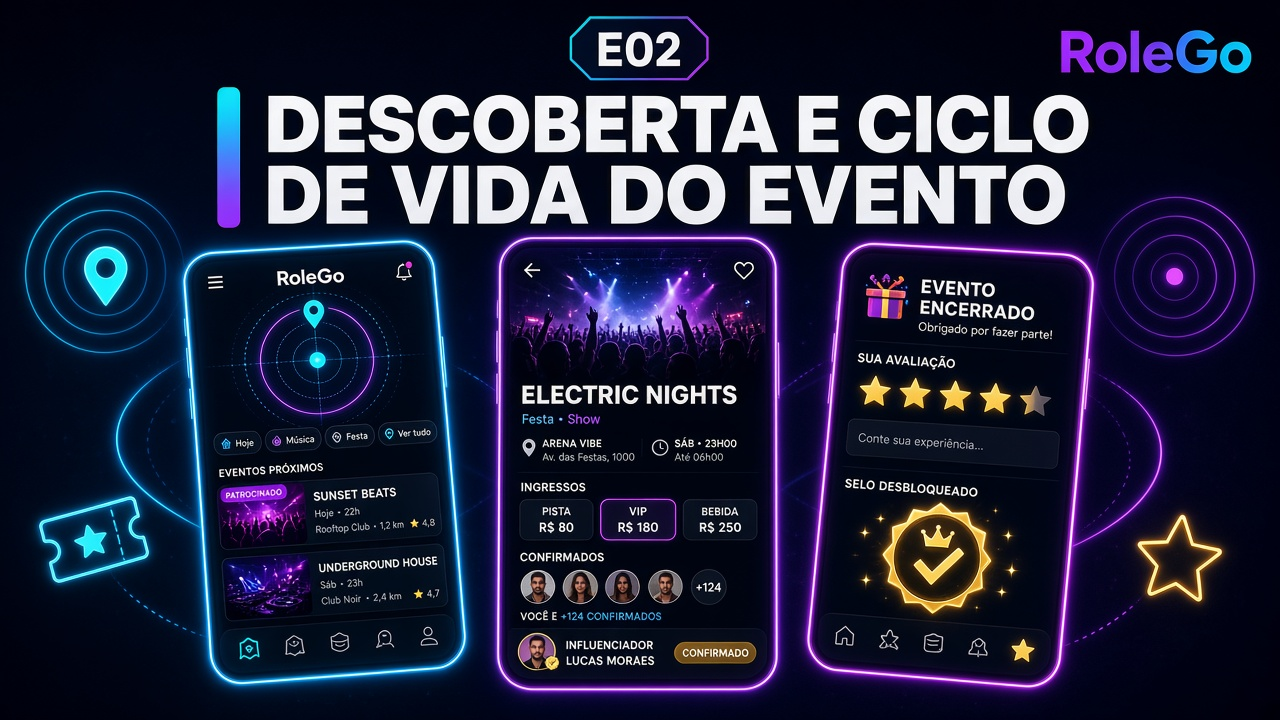
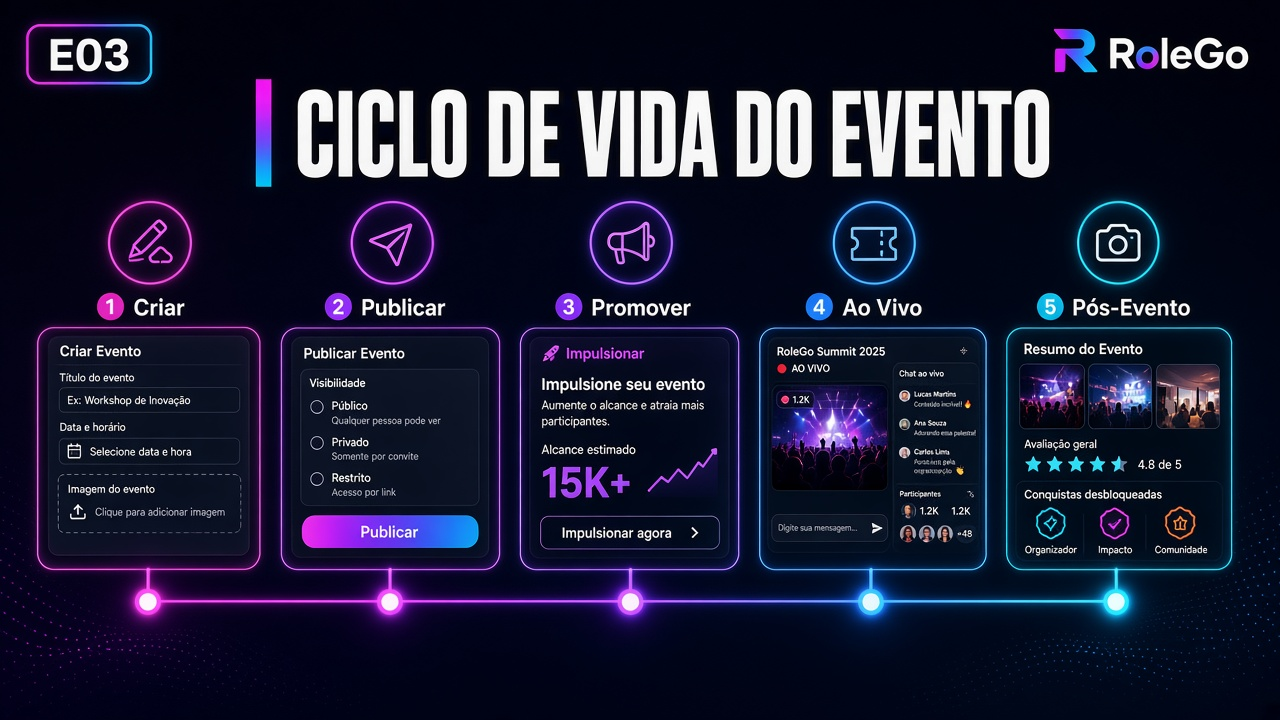
Update epic documentation with improved formatting and content adjustments
This commit refines the README.md files for various epics, enhancing the formatting for better readability and consistency. Key changes include correcting table alignments, updating epic descriptions, and ensuring accurate image paths. Additionally, the user personas in the role-go section have been updated to reflect changes in epic associations, improving clarity and organization throughout the documentation.

diff --git a/role-go/epics.md b/role-go/epics.md
@@ -11,16 +11,17 @@ Cada épico agrupa um conjunto coerente de valor; histórias e BDD vêm depois.
 | ID | Épico |
 |----|-------|
 | E01 | Conta, onboarding e perfil |
-| E02 | Descoberta e ciclo de vida do evento |
-| E03 | Ingressos e pagamento |
-| E04 | Cardápio digital e consumação |
-| E05 | Gamificação e RoleGo Wallet |
-| E06 | Vitrine de influenciadores |
-| E07 | Publicidade e visibilidade paga |
-| E08 | Assinatura Premium |
-| E09 | Notificações e alertas |
-| E10 | Painel do parceiro (bares e casas) |
-| E11 | Reputação anfitrião–convidado |
+| E02 | Descoberta de eventos |
+| E03 | Ciclo de vida do evento |
+| E04 | Ingressos e pagamento |
+| E05 | Cardápio digital e consumação |
+| E06 | Gamificação e RoleGo Wallet |
+| E07 | Vitrine de influenciadores |
+| E08 | Publicidade e visibilidade paga |
+| E09 | Assinatura Premium |
+| E10 | Notificações e alertas |
+| E11 | Painel do parceiro (bares e casas) |
+| E12 | Reputação anfitrião–convidado |
 
 ---
 
@@ -30,65 +31,69 @@ Cada épico agrupa um conjunto coerente de valor; histórias e BDD vêm depois.
 
 O usuário cria conta (email, Google ou Apple), configura preferências de tipo de evento, cidade, raio e localização, e mantém um perfil com foto, histórico de eventos, amigos, fotos por evento e selos. A entrada rápida e o perfil alimentam descoberta, social e gamificação.
 
-## E02 — Descoberta e ciclo de vida do evento
+## E02 — Descoberta de eventos
 
-![Capa do épico E02 — Descoberta e ciclo de vida do evento](assets/epic-e02-cover.png)
+![Capa do épico E02 — Descoberta de eventos](assets/epic-e02-cover.png)
 
-O usuário encontra o que está rolando perto dele por geolocalização e raio configurável (ex.: 5, 20 ou 50 km), com modos Feed, Tinder (swipe), Lista e Mapa (conforme premium/patrocínio), filtros por tipo e dia, destaque de eventos patrocinados e radar dinâmico com cards atualizados. Cada evento tem página completa (local, horários, valores de entrada/VIP/bebida, confirmados, interessados, influenciadores contratados e fotos de edições anteriores) e ciclo do anúncio ao pós-evento (cadastro e edição por anfitriões e casas, avaliação, comentário e selos) — unificando a descoberta espalhada hoje em Instagram, Google, sites e WhatsApp e dando informação suficiente para decidir, comprar e lembrar o rolê.
+O usuário encontra o que está rolando perto dele por geolocalização e raio configurável (ex.: 5, 20 ou 50 km), com modos Feed, Tinder (swipe), Lista e Mapa (conforme premium/patrocínio), filtros por tipo e dia, destaque de eventos patrocinados e radar dinâmico com cards atualizados — unificando a descoberta hoje espalhada em Instagram, Google, sites e WhatsApp.
 
-## E03 — Ingressos e pagamento
+## E03 — Ciclo de vida do evento
 
-![Capa do épico E03 — Ingressos e pagamento](assets/epic-e03-cover.png)
+![Capa do épico E03 — Ciclo de vida do evento](assets/epic-e03-cover.png)
+
+Cada evento tem página completa (local, horários, valores de entrada/VIP/bebida, confirmados, interessados, influenciadores contratados e fotos de edições anteriores) e um ciclo do anúncio ao pós-evento (criar, publicar, promover, ao vivo, avaliação, comentário e selos) — informação suficiente para decidir, comprar e lembrar o rolê.
+
+## E04 — Ingressos e pagamento
+
+![Capa do épico E04 — Ingressos e pagamento](assets/epic-e04-cover.png)
 
 Compra de ingresso no app (pista, VIP etc.) com taxa de serviço, gateway de pagamento, QR Code, carteira de ingressos, compartilhamento com o grupo e reserva de mesa/consumação antecipada em parceiros — do descarte ao ingresso em poucos cliques.
 
-## E04 — Cardápio digital e consumação
+## E05 — Cardápio digital e consumação
 
-![Capa do épico E04 — Cardápio digital e consumação](assets/epic-e04-cover.png)
+![Capa do épico E05 — Cardápio digital e consumação](assets/epic-e05-cover.png)
 
 O usuário consome pelo app no bar parceiro via cardápio digital; a compra gera score de consumo e benefícios ligados a status/premium, com comissão para o estabelecimento (percentuais ainda em aberto na visão).
 
-## E05 — Gamificação e RoleGo Wallet
+## E06 — Gamificação e RoleGo Wallet
 
-![Capa do épico E05 — Gamificação e RoleGo Wallet](assets/epic-e05-cover.png)
+![Capa do épico E06 — Gamificação e RoleGo Wallet](assets/epic-e06-cover.png)
 
 Pontos, selos, rankings entre amigos, recompensas (descontos, ingressos com preço reduzido, furo de fila) e status (ex.: Rolê Gold, Platina) incentivam uso e compra pelo app. A RoleGo Wallet guarda histórico de experiências, fotos, avaliações e selos, reforçando retenção e adesão dos estabelecimentos.
 
-## E06 — Vitrine de influenciadores
+## E07 — Vitrine de influenciadores
+
+![Capa do épico E07 — Vitrine de influenciadores](assets/epic-e07-cover.png)
 
 Influenciadores cadastram disponibilidade; casas e produtores contratam pela plataforma; o nome do influenciador confirmado aparece na página do evento como chamariz, com comissão sobre o cachê e tração em novas cidades.
 
-![Capa do épico E06 — Vitrine de influenciadores](assets/epic-e06-cover.png)
+## E08 — Publicidade e visibilidade paga
 
-## E07 — Publicidade e visibilidade paga
-
-![Capa do épico E07 — Publicidade e visibilidade paga](assets/epic-e07-cover.png)
+![Capa do épico E08 — Publicidade e visibilidade paga](assets/epic-e08-cover.png)
 
 Eventos e casas pagam para aparecer além do alcance orgânico: impulsionamento fora do raio padrão, visibilidade no mapa, destaques no feed e parcerias de mídia paga — monetização B2B alinhada à visão.
 
-## E08 — Assinatura Premium
+## E09 — Assinatura Premium
 
-![Capa do épico E08 — Assinatura Premium](assets/epic-e08-cover.png)
+![Capa do épico E09 — Assinatura Premium](assets/epic-e09-cover.png)
 
 O usuário paga por recursos extras: mapa completo de eventos, descontos em bares parceiros, visualização de fotos e participantes sem restrição e demais diferenciais do roadmap — gerando receita recorrente e engajamento diferenciado.
 
-## E09 — Notificações e alertas
-![Capa do épico E09 — Notificações e alertas](assets/epic-e09-cover.png)
+## E10 — Notificações e alertas
+
+![Capa do épico E10 — Notificações e alertas](assets/epic-e10-cover.png)
 
 Push e central in-app avisam novo evento no raio, interações sociais (like, match, progresso do grupo), ingresso, segurança e pós-evento — reabrindo o app e acelerando a decisão no momento certo.
 
-## E10 — Painel do parceiro (bares e casas)
+## E11 — Painel do parceiro (bares e casas)
+
+![Capa do épico E11 — Painel do parceiro](assets/epic-e11-cover.png)
 
 Estabelecimentos e produtores operam vitrine, publicação e gestão de eventos, venda de ingresso, cardápio, campanhas pagas e métricas básicas de público e engajamento — o lado B2B da proposta de valor.
 
-## E11 — Reputação anfitrião–convidado
-![Capa do épico E10 — Painel do parceiro](assets/epic-e10-cover.png)
+## E12 — Reputação anfitrião–convidado
 
-Estabelecimentos e produtores operam vitrine, publicação e gestão de eventos, venda de ingresso, cardápio, campanhas pagas e métricas básicas de público e engajamento — o lado B2B da proposta de valor.
-
-## E11 — Reputação anfitrião–convidado
-
-![Capa do épico E11 — Reputação anfitrião–convidado](assets/epic-e11-cover.png)
+![Capa do épico E12 — Reputação anfitrião–convidado](assets/epic-e12-cover.png)
 
 Anfitrião e convidado se avaliam por estrelas após o evento; a reputação fica no perfil e influencia listas e decisões de convite, mitigando risco social em eventos privados.
 
@@ -99,9 +104,10 @@ Anfitrião e convidado se avaliam por estrelas após o evento; a reputação fic
 Ordem sugerida para um MVP alinhado aos wireframes e à jornada principal da visão:
 
 1. **E01** Conta e onboarding  
-2. **E02** Descoberta e ciclo de vida do evento  
-3. **E03** Ingressos  
-4. **E09** Notificações  
-5. **E05** Gamificação básica + pós-evento  
+2. **E02** Descoberta de eventos  
+3. **E03** Ciclo de vida do evento  
+4. **E04** Ingressos  
+5. **E10** Notificações  
+6. **E06** Gamificação básica + pós-evento  
 
 Demais épicos (premium, ads, influenciadores, cardápio, painel, reputação) como **além do MVP**, conforme validação e go-to-market.

diff --git a/role-go/README.md b/role-go/README.md
@@ -39,12 +39,12 @@ O objetivo é resolver um problema comum: hoje, para descobrir o que está rolan
 
 | Persona | Quem é | Principais dores | O que faz no RoleGo | Épicos relacionados |
 |---------|--------|-------------------|----------------------|----------------------|
-| **Usuário Explorador** | Pessoa que quer sair (fim de semana, viagem, cidade nova) e decidir rápido com o grupo | Informação de eventos espalhada em vários apps; decisão em grupo é lenta e sem dados | Descobre eventos por feed/swipe/mapa, vê quem vai, dá like, entra no match do grupo, compra ingresso e vai ao chat | E01, E02, E03, E09 |
+| **Usuário Explorador** | Pessoa que quer sair (fim de semana, viagem, cidade nova) e decidir rápido com o grupo | Informação de eventos espalhada em vários apps; decisão em grupo é lenta e sem dados | Descobre eventos por feed/swipe/mapa, vê quem vai, dá like, entra no match do grupo, compra ingresso e vai ao chat | E01, E02, E03, E04, E10 |
 | **Usuário Solo** | Está sozinho na cidade (morador novo ou viajante) e quer socializar sem grupo formado | Dificuldade de conhecer gente em bares/festas sem estar acompanhado | Ativa o Modo Solo, conecta-se com quem deu like no mesmo evento, divide custos e experiência | E02 |
-| **Anfitrião de evento privado** | Pessoa física que organiza social, churrasco ou festa em local próprio | Falta de controle de lista e de confiança sobre quem confirma presença | Cria o evento privado, controla acesso/local revelado após confirmação, avalia convidados | E02, E11 |
-| **Convidado de evento privado** | Pessoa convidada para um evento privado (social, churrasco etc.) | Insegurança sobre o evento e o anfitrião antes de ir | Recebe convite/notificação, confirma presença, avalia o anfitrião após o evento | E09, E11 |
-| **Bar / Casa de eventos** | Estabelecimento comercial que promove eventos e quer vender mais e conhecer o público | Falta de vitrine unificada, dados de público e canal de venda direto | Publica eventos, vende ingresso, oferece cardápio digital, acompanha engajamento e paga por destaque | E02, E03, E04, E07, E10 |
-| **Influenciador / Organizador** | Criador de conteúdo ou produtor que divulga presença/eventos e busca monetização | Falta de canal direto para ser contratado e comprovar presença como atrativo | Cadastra disponibilidade, é contratado por casas/produtores, tem presença exibida na página do evento | E06 |
+| **Anfitrião de evento privado** | Pessoa física que organiza social, churrasco ou festa em local próprio | Falta de controle de lista e de confiança sobre quem confirma presença | Cria o evento privado, controla acesso/local revelado após confirmação, avalia convidados | E03, E12 |
+| **Convidado de evento privado** | Pessoa convidada para um evento privado (social, churrasco etc.) | Insegurança sobre o evento e o anfitrião antes de ir | Recebe convite/notificação, confirma presença, avalia o anfitrião após o evento | E10, E12 |
+| **Bar / Casa de eventos** | Estabelecimento comercial que promove eventos e quer vender mais e conhecer o público | Falta de vitrine unificada, dados de público e canal de venda direto | Publica eventos, vende ingresso, oferece cardápio digital, acompanha engajamento e paga por destaque | E03, E04, E05, E08, E11 |
+| **Influenciador / Organizador** | Criador de conteúdo ou produtor que divulga presença/eventos e busca monetização | Falta de canal direto para ser contratado e comprovar presença como atrativo | Cadastra disponibilidade, é contratado por casas/produtores, tem presença exibida na página do evento | E07 |
 
 ---
 

diff --git a/flow/epics/EP-03-gantt/README.md b/flow/epics/EP-03-gantt/README.md
@@ -1,25 +1,24 @@
- # EP-03 — Gantt
+# EP-03 — Gantt
 
- ![EP-03 — Gantt cover](../assets/epic-e03-cover.png)
+![EP-03 — Gantt cover](../assets/epic-e03-cover.png)
 
- | Campo | Valor |
- |-------|--------|
- | ID | EP-03 |
- | Task | [TSK-005](../../tasks/TSK-001-criar-epico/TSK-002-criar-as-historias/TSK-005-gantt/README.md) |
- | Status | Doing |
+| Campo | Valor |
+|-------|--------|
+| ID | EP-03 |
+| Task | [TSK-005](../../tasks/TSK-001-criar-epico/TSK-002-criar-as-historias/TSK-005-gantt/README.md) |
+| Status | Doing |
 
- ## Intenção
-     10|
- Controle de sequência e paralelismo das atividades.
+## Intenção
 
- ## Histórias
+Controle de sequência e paralelismo das atividades.
 
- | ID | História | Pasta |
- |----|----------|-------|
- | US-01 | Criar tarefa | [`US-01-criar-tarefa/`](US-01-criar-tarefa/README.md) |
- | US-02 | Mover tarefa (drag and drop) | [`US-02-mover-tarefa-dragdrop/`](US-02-mover-tarefa-dragdrop/README.md) |
- | US-03 | Remover tarefa | [`US-03-remover-tarefa/`](US-03-remover-tarefa/README.md) |
-     20|| US-04 | Atribuir responsável | [`US-04-atribuir-responsavel/`](US-04-atribuir-responsavel/README.md) |
- | US-07 | Visualizar tarefas | [`US-07-visualizar-tarefas/`](US-07-visualizar-tarefas/README.md) |
- | US-08 | Selecionar atividade | [`US-08-selecionar-atividade/`](US-08-selecionar-atividade/README.md) |
+## Histórias
 
+| ID | História | Pasta |
+|----|----------|-------|
+| US-01 | Criar tarefa | [`US-01-criar-tarefa/`](US-01-criar-tarefa/README.md) |
+| US-02 | Mover tarefa (drag and drop) | [`US-02-mover-tarefa-dragdrop/`](US-02-mover-tarefa-dragdrop/README.md) |
+| US-03 | Remover tarefa | [`US-03-remover-tarefa/`](US-03-remover-tarefa/README.md) |
+| US-04 | Atribuir responsável | [`US-04-atribuir-responsavel/`](US-04-atribuir-responsavel/README.md) |
+| US-07 | Visualizar tarefas | [`US-07-visualizar-tarefas/`](US-07-visualizar-tarefas/README.md) |
+| US-08 | Selecionar atividade | [`US-08-selecionar-atividade/`](US-08-selecionar-atividade/README.md) |

diff --git a/flow/epics/EP-02-board/README.md b/flow/epics/EP-02-board/README.md
@@ -9,7 +9,7 @@
 | Status | Doing |
 
 ## Intenção
-    10|
+
 Para cada arquivo, saber o status.
 
 ## Histórias
@@ -19,7 +19,7 @@ Para cada arquivo, saber o status.
 | US-01 | Criar card | [`US-01-criar-card/`](US-01-criar-card/README.md) |
 | US-02 | Remover card | [`US-02-remover-card/`](US-02-remover-card/README.md) |
 | US-03 | Mover card | [`US-03-mover-card/`](US-03-mover-card/README.md) |
-    20|| US-04 | Renomear card | [`US-04-renomear-card/`](US-04-renomear-card/README.md) |
+| US-04 | Renomear card | [`US-04-renomear-card/`](US-04-renomear-card/README.md) |
 | US-05 | Abrir card | [`US-05-abrir-card/`](US-05-abrir-card/README.md) |
 | US-06 | Editar card | [`US-06-editar-card/`](US-06-editar-card/README.md) |
 | US-07 | Criar coluna | [`US-07-criar-coluna/`](US-07-criar-coluna/README.md) |

diff --git a/flow/epics/EP-04-arvore-de-execucao/README.md b/flow/epics/EP-04-arvore-de-execucao/README.md
@@ -1,12 +1,12 @@
 # EP-04 — Árvore de execução
 
+![EP-04 — Árvore de execução cover](../assets/epic-e04-cover.png)
+
 | Campo | Valor |
 |-------|--------|
 | ID | EP-04 |
 | Task | [TSK-006](../../tasks/TSK-001-criar-epico/TSK-002-criar-as-historias/TSK-006-arvore-de-execucao/README.md) |
 | Status | Doing |
- 
-![EP-04 — Árvore de execução cover](../assets/epic-e04-cover.png)
 
 ## Intenção
 

diff --git a/flow/epics/README.md b/flow/epics/README.md
@@ -1,4 +1,4 @@
-# Flow — Épicos
+# Flow — Épicos
 
 | ID | Épico | Pasta | Intenção |
 |----|-------|-------|----------|
